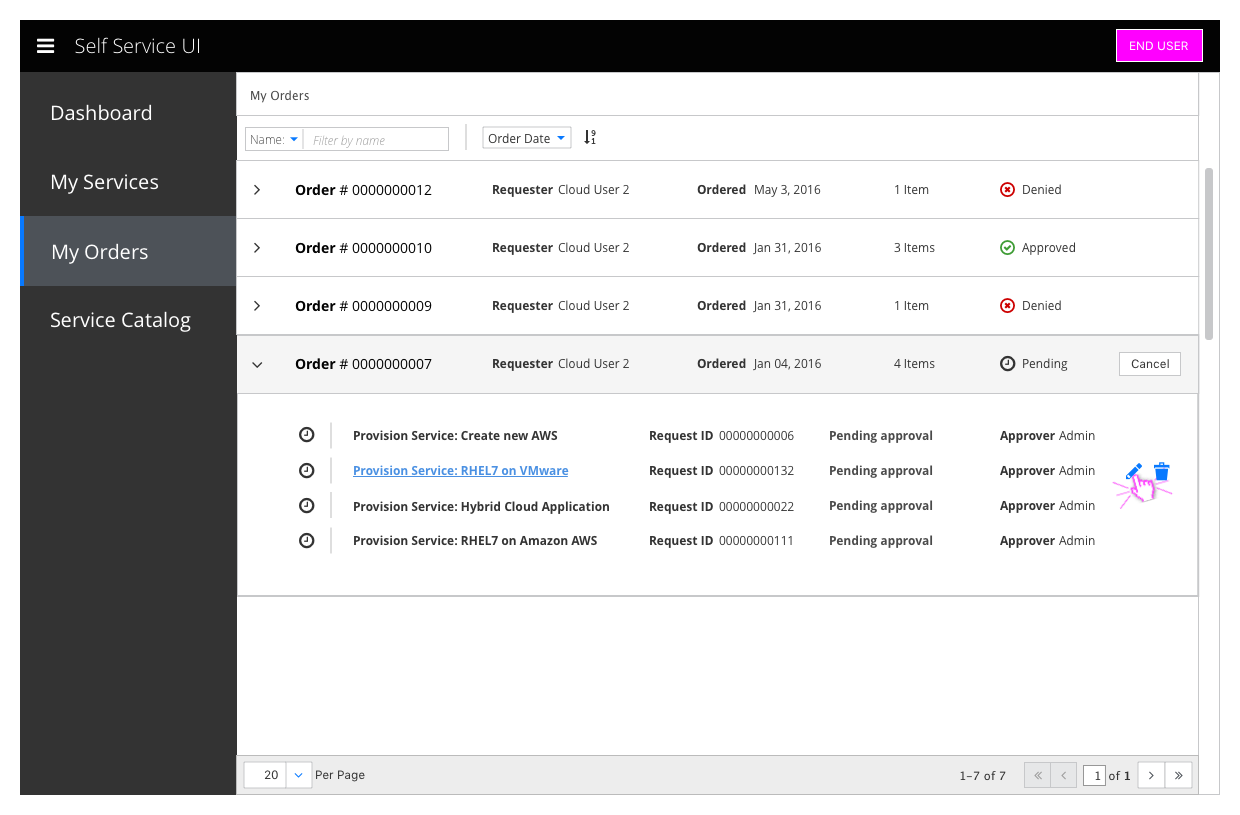
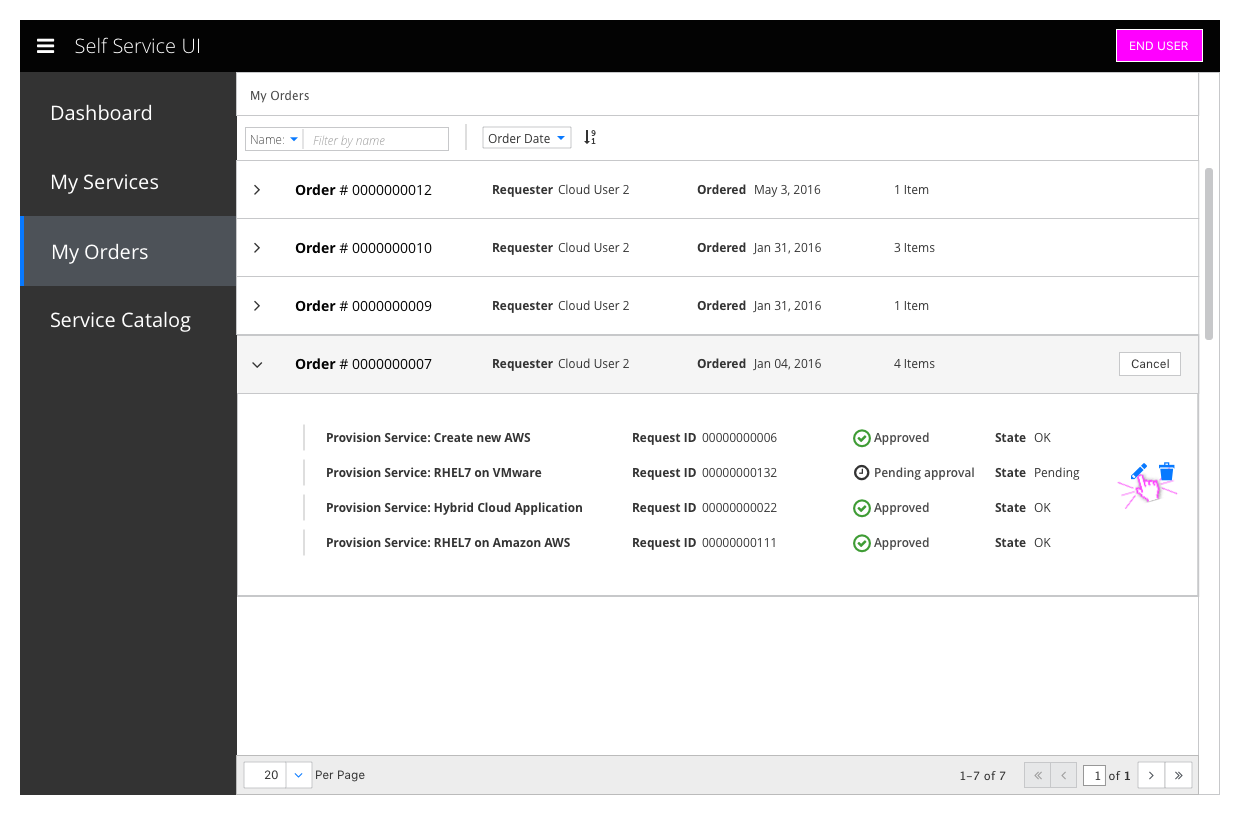
Updating designs to reflect new approval information

diff --git a/UX/ui-service/MyOrders/design.md b/UX/ui-service/MyOrders/design.md
@@ -14,18 +14,20 @@
 
 ### Approve Order
 ![Image Title/Mockup Name](img/Order_02.png)
-- The Administrator can check and approve an order or its component pieces
+- The Administrator can check and approve the requests in an order.
 
 
 #### Implementation Details
   - The orders list should use the [List View with simple expansion](https://www.patternfly.org/pattern-library/content-views/list-view/#/api#expanding-rows) pattern
+  - Clicking the checkbox on an order should expand the order and select all the requests in the order.
+  - The box on an order should be checked if and only if all the requests in the order are checked.
 
 ## End user
 
 ### View Orders
 ![Image Title/Mockup Name](img/Order_03.png)
 - The End User sees only orders that they have placed
-- They can check the status of their currently pending orders and view all past orders and their component requests
+- They can check the status of their currently pending requests and view all past orders and their component requests
 
 ### View Requests
 ![Image Title/Mockup Name](img/Order_04.png)
